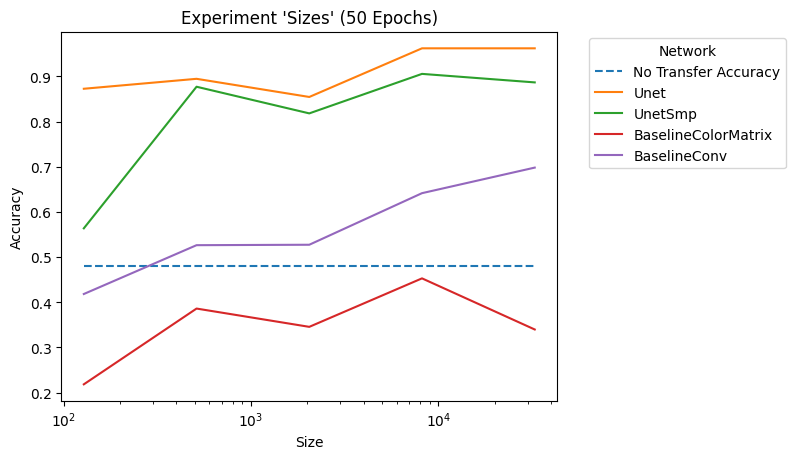
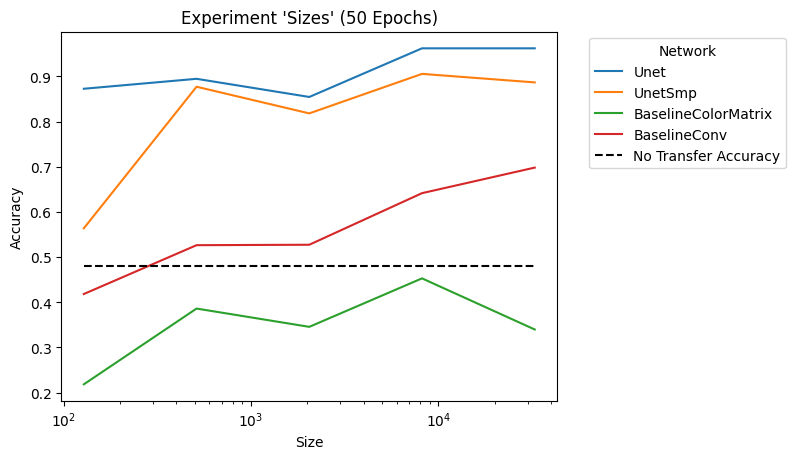
experiments plotting

diff --git a/experiments.py b/experiments.py
@@ -195,36 +195,25 @@ def smoothen(x, smoothing=11):
     return x
 
 
-if x_param == 'epoch':
-    x = epochs
+x = epochs if x_param == 'epoch' else param_grid[x_param]
 
-    for i, id in enumerate(param_ids.keys()):
-        y = smoothen(results[id][y_param], smoothing=201)
-
-        color, linestyle = (None, None) if param_ids_styles is None \
-            else param_ids_styles[i]
-
-        plt.plot(x, y, color=color, linestyle=linestyle, label=id)
-
-        print('label', id, 'color', color, 'style', linestyle)
-
-
-else:
-    x = param_grid[x_param]
-
-    for i, label in enumerate(labels):
-        filtered_ids = {id: params
+for i, label in enumerate(labels):
+    if x_param == 'epoch':
+        y = smoothen(results[label][y_param], smoothing=201)
+    else:
+        filtered_ids = [id
                         for id, params in param_ids.items()
-                        if (params[label_param] == label if use_filter else True)}
+                        if (params[label_param] == label if use_filter else True)]
 
-        y = [parse_logs(results[id][y_param]) for id in filtered_ids.keys()]
-        print('x', x)
-        print('y', y)
-
-        # plt.plot(x, y, color=color, linestyle=linestyle, label=label)
+        y = [parse_logs(results[id][y_param]) for id in filtered_ids]
 
         plt.xticks(x)
         plt.xscale('log')
+
+    color, linestyle = (None, None) if param_ids_styles is None \
+        else param_ids_styles[i]
+
+    plt.plot(x, y, color=color, linestyle=linestyle, label=label)
 
 
 plt.plot(x, [no_transfer_acc] * len(x),
